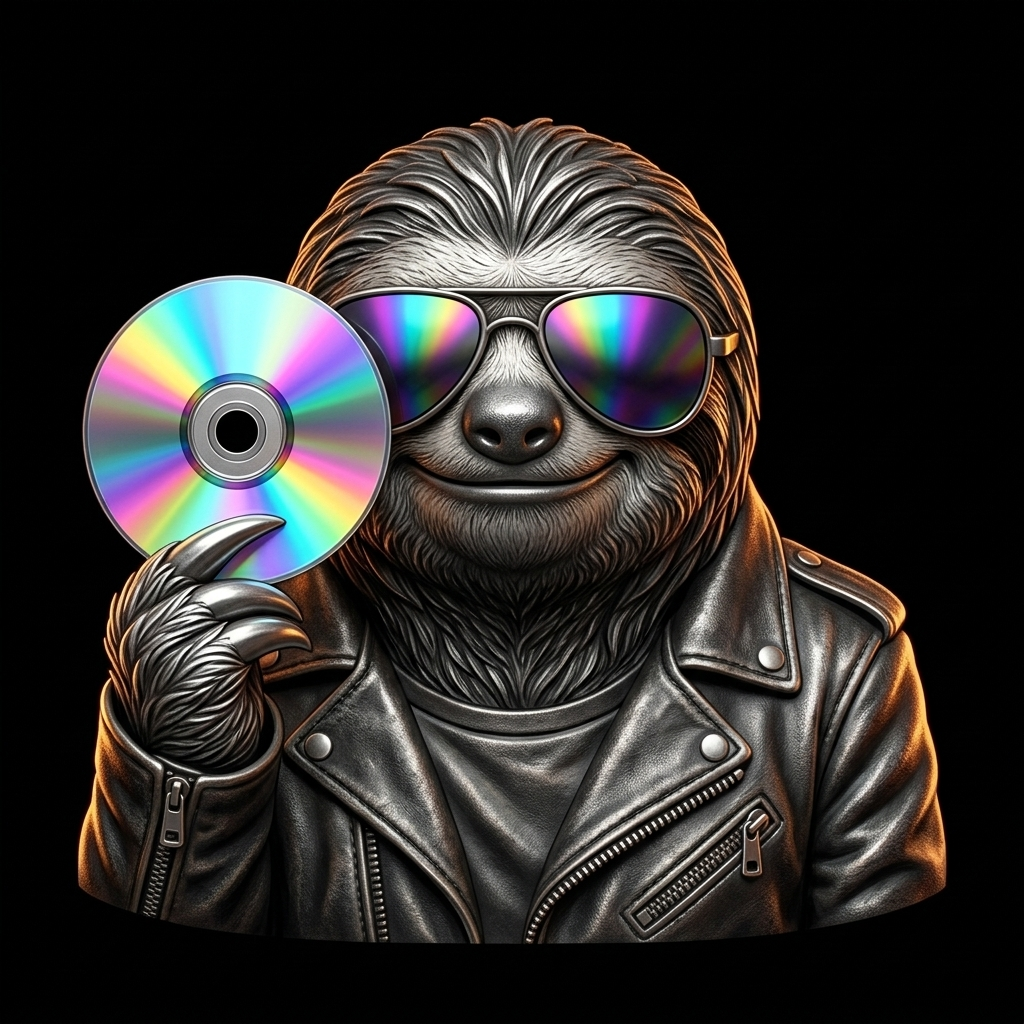
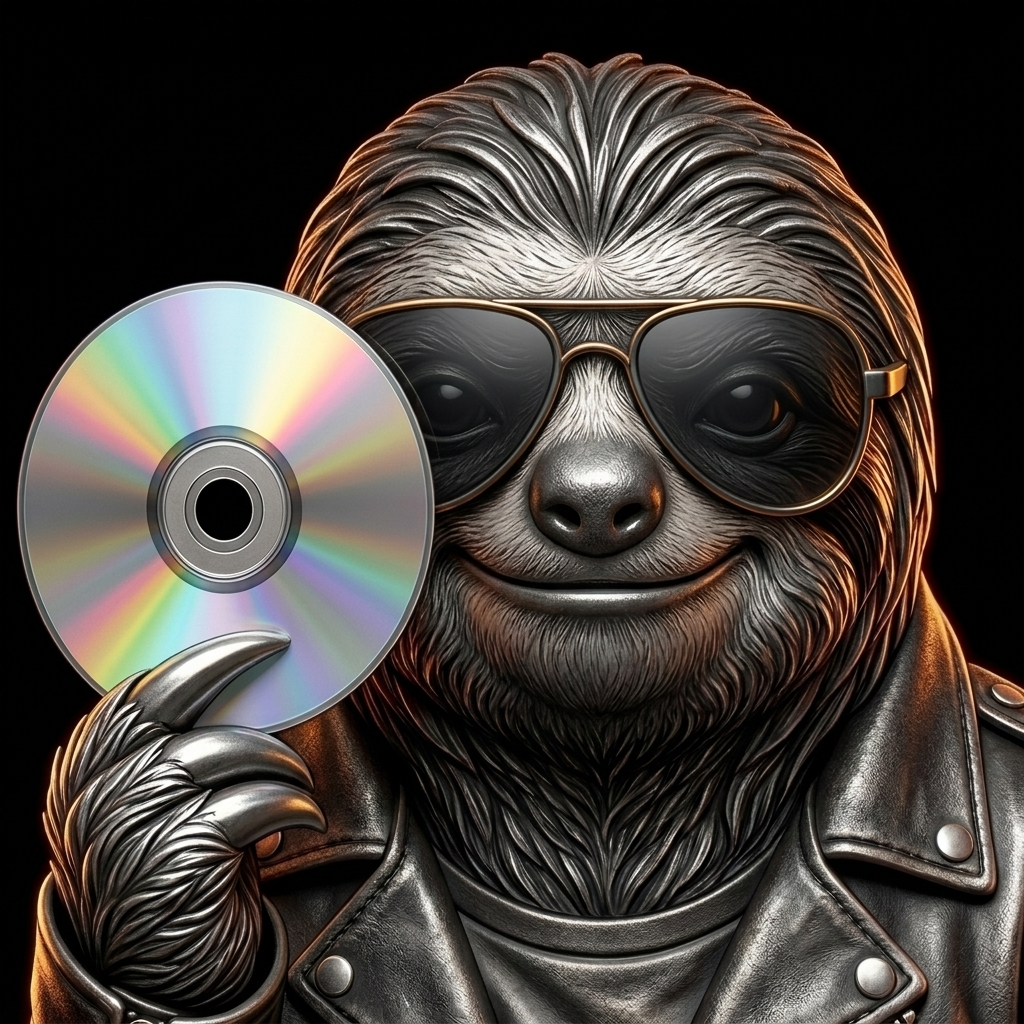
chore(release): bump version to v0.9.4 and align store_icon asset

diff --git a/src/lazycdripper/__init__.py b/src/lazycdripper/__init__.py
@@ -1,4 +1,4 @@
 """Lazy CD Ripper - Effortless, audiophile-grade CD ripping software."""
 
-__version__ = "0.9.3"
+__version__ = "0.9.4"
 __codename__ = "Peace... Like a River"

diff --git a/STYLE_GUIDE.md b/STYLE_GUIDE.md
@@ -126,17 +126,17 @@ When the user enlarges or maximizes the application window, **UI elements must s
   - **Happy Sloth (Success / Pristine / Recovered):** Confident smile, dark sunglasses, leather motorcycle jacket, thumbs-up claw gesture.
   - **Sad Sloth (Degraded / Damaged / Failed):** Visibly sorrowful frown, dark sunglasses tipped down looking up with sympathetic eyes, thumbs-down claw gesture.
 
-### 5.3 Windows Store App Icon (`assets/images/store_icon_tight.jpg`)
-- **Composition:** Extreme close-up bust focusing tightly on the heavy metal sloth mascot's face and upper torso to maximize recognition at small tile sizes (48×48 to 150×150 px).
+### 5.3 Windows Store App Icon (`assets/images/store_icon.jpg` / `store_icon_tight.jpg`)
+- **Composition:** High-impact close-up bust focusing tightly on the heavy metal sloth mascot's face and upper torso to maximize recognition at small tile sizes (48×48 to 150×150 px).
 - **Hero Features:**
-  - Sculpted cast pewter and brushed silver metal fur with polished chrome highlights.
-  - Dark aviator rock sunglasses with radiant, iridescent rainbow Compact Disc holographic spectral reflections mirrored across both lenses.
-  - Metallic claw hand holding a brilliant rainbow holographic Compact Disc right next to his rock smirk.
+  - Sculpted cast pewter, antique gunmetal, and brushed silver metal fur with polished chrome highlights matching the completion medallion aesthetic.
+  - Sleek dark-tinted aviator sunglasses with natural glass specular highlights and subtle warm reflections (no laser/rainbow eye glare).
+  - Metallic claw hand holding a brilliant rainbow holographic Compact Disc with authentic spectral refraction right next to his rock smirk.
   - Classic vintage motorcycle leather jacket with metallic studs and warm subtle vacuum-tube amber rim lighting (`#FF9E3B`).
   - Pure solid black background (`#000000`) for seamless app icon masking and store packaging.
 - **File Asset Paths:**
-  - Tight Close-up (Primary Store Icon): [`assets/images/store_icon_tight.jpg`](file:///home/nduhovnijs/projects/lazycdripper/assets/images/store_icon_tight.jpg)
-  - Full Bust Portrait (Alternative Asset): [`assets/images/store_icon.jpg`](file:///home/nduhovnijs/projects/lazycdripper/assets/images/store_icon.jpg)
+  - Primary Store Icon: [`assets/images/store_icon.jpg`](file:///home/nduhovnijs/projects/lazycdripper/assets/images/store_icon.jpg)
+  - Companion Asset (Tight Focus): [`assets/images/store_icon_tight.jpg`](file:///home/nduhovnijs/projects/lazycdripper/assets/images/store_icon_tight.jpg)
 
 ---
 

diff --git a/README.md b/README.md
@@ -39,6 +39,13 @@ The audio CD ripper for Windows 11 with zero settings. Defaults are great. Just 
 
 ## Release Notes
 
+### v0.9.4 — *"Peace... Like a River"* (October 2026)
+- **Standalone Dedicated Encoders (FLAC + MP3):** Replaced monolithic FFmpeg dependency with high-performance standalone `flac.exe` and `lame.exe` (LAME 4.0 q4-patched with companion DLLs), switching lossy compression to patent-free MP3 CBR 320 kbps with zero external codecs or system dependencies required.
+- **Refined Windows Store Mascot Icon:** Updated store app icons (`store_icon.jpg` and `store_icon_tight.jpg`) with sleek dark-tinted aviator lenses, realistic glass depth, and warm vacuum-tube amber lighting matching the completion medallion palette.
+- **Ergonomic Capsule Progress Meters & Scrollbars:** Implemented mathematically seamless rounded capsule geometry across all progress bars and scrollbars (`border-radius: 10px` on progress container, `9px` on chunk; `12px` wide scrollbar with `6px` radius on track and handle).
+- **Ripping View Decompression & 960px Wide Containers:** Expanded active ripping containers to 960px with relaxed 20px progress bars and 22px inter-meter separation, ensuring nostalgic quotes fit comfortably without multi-line wrapping.
+- **Visual Polish & Layout Realignment:** Aligned completion output folder links and diagnostic bullet points to the left, matched overall progress labels to crisp white `#F3F4F6`, and fixed Credits dialog vertical height clamping to prevent text clipping.
+
 ### v0.9.3 — *"Peace... Like a River"* (October 2026)
 - **Human-Friendly Quality Clarifications:** Clarified codec selections for everyday audiophiles—FLAC Lossless labeled as *"Perfect CD copy"* and MP3 Lossy as *"Compressed but still great"*—while preserving exact encoder flags and bitrates for those who care.
 - **Central-Axis Alignment & Layout Clamping:** Centered all active ripping and completion screens along a strict vertical axis (`Qt.AlignCenter`), eliminated element drift when expanding or maximizing the window, and guaranteed custom window dimensions persist seamlessly across all screen transitions.

diff --git a/UI_SPEC.md b/UI_SPEC.md
@@ -99,7 +99,7 @@ MainWindow
     │   │   ├── PrimaryRipButton ("Rip to FLAC + MP3")
     │   │   └── PolicyContainer
     │   │       ├── EngineeringPolicyNote ("Dual rip: [FLAC Master] + [MP3 320k]")
-    │   │       └── ChassisVersionLabel ("v0.9.3 • Peace... Like a River • Credits" clickable serial plate)
+    │   │       └── ChassisVersionLabel ("v0.9.4 • Peace... Like a River • Credits" clickable serial plate)
     │   └── RightDeck (Master Recording Roster)
     │       ├── MetadataHeaderCard (Unified status: No Drive -> Insert audio CD -> Fetching Metadata -> Album Title)
     │       └── TrackTableWidget (4 Columns: #, Title, Artist, Time; borderless rows, full height)

diff --git a/SPEC.md b/SPEC.md
@@ -2,7 +2,7 @@
 
 | Status | Version | Date | Target Platforms |
 | :--- | :--- | :--- | :--- |
-| **Approved / Active** | `0.9.3` | October 2026 | Windows 10 / 11 (64-bit) |
+| **Approved / Active** | `0.9.4` | October 2026 | Windows 10 / 11 (64-bit) |
 
 ---
 
